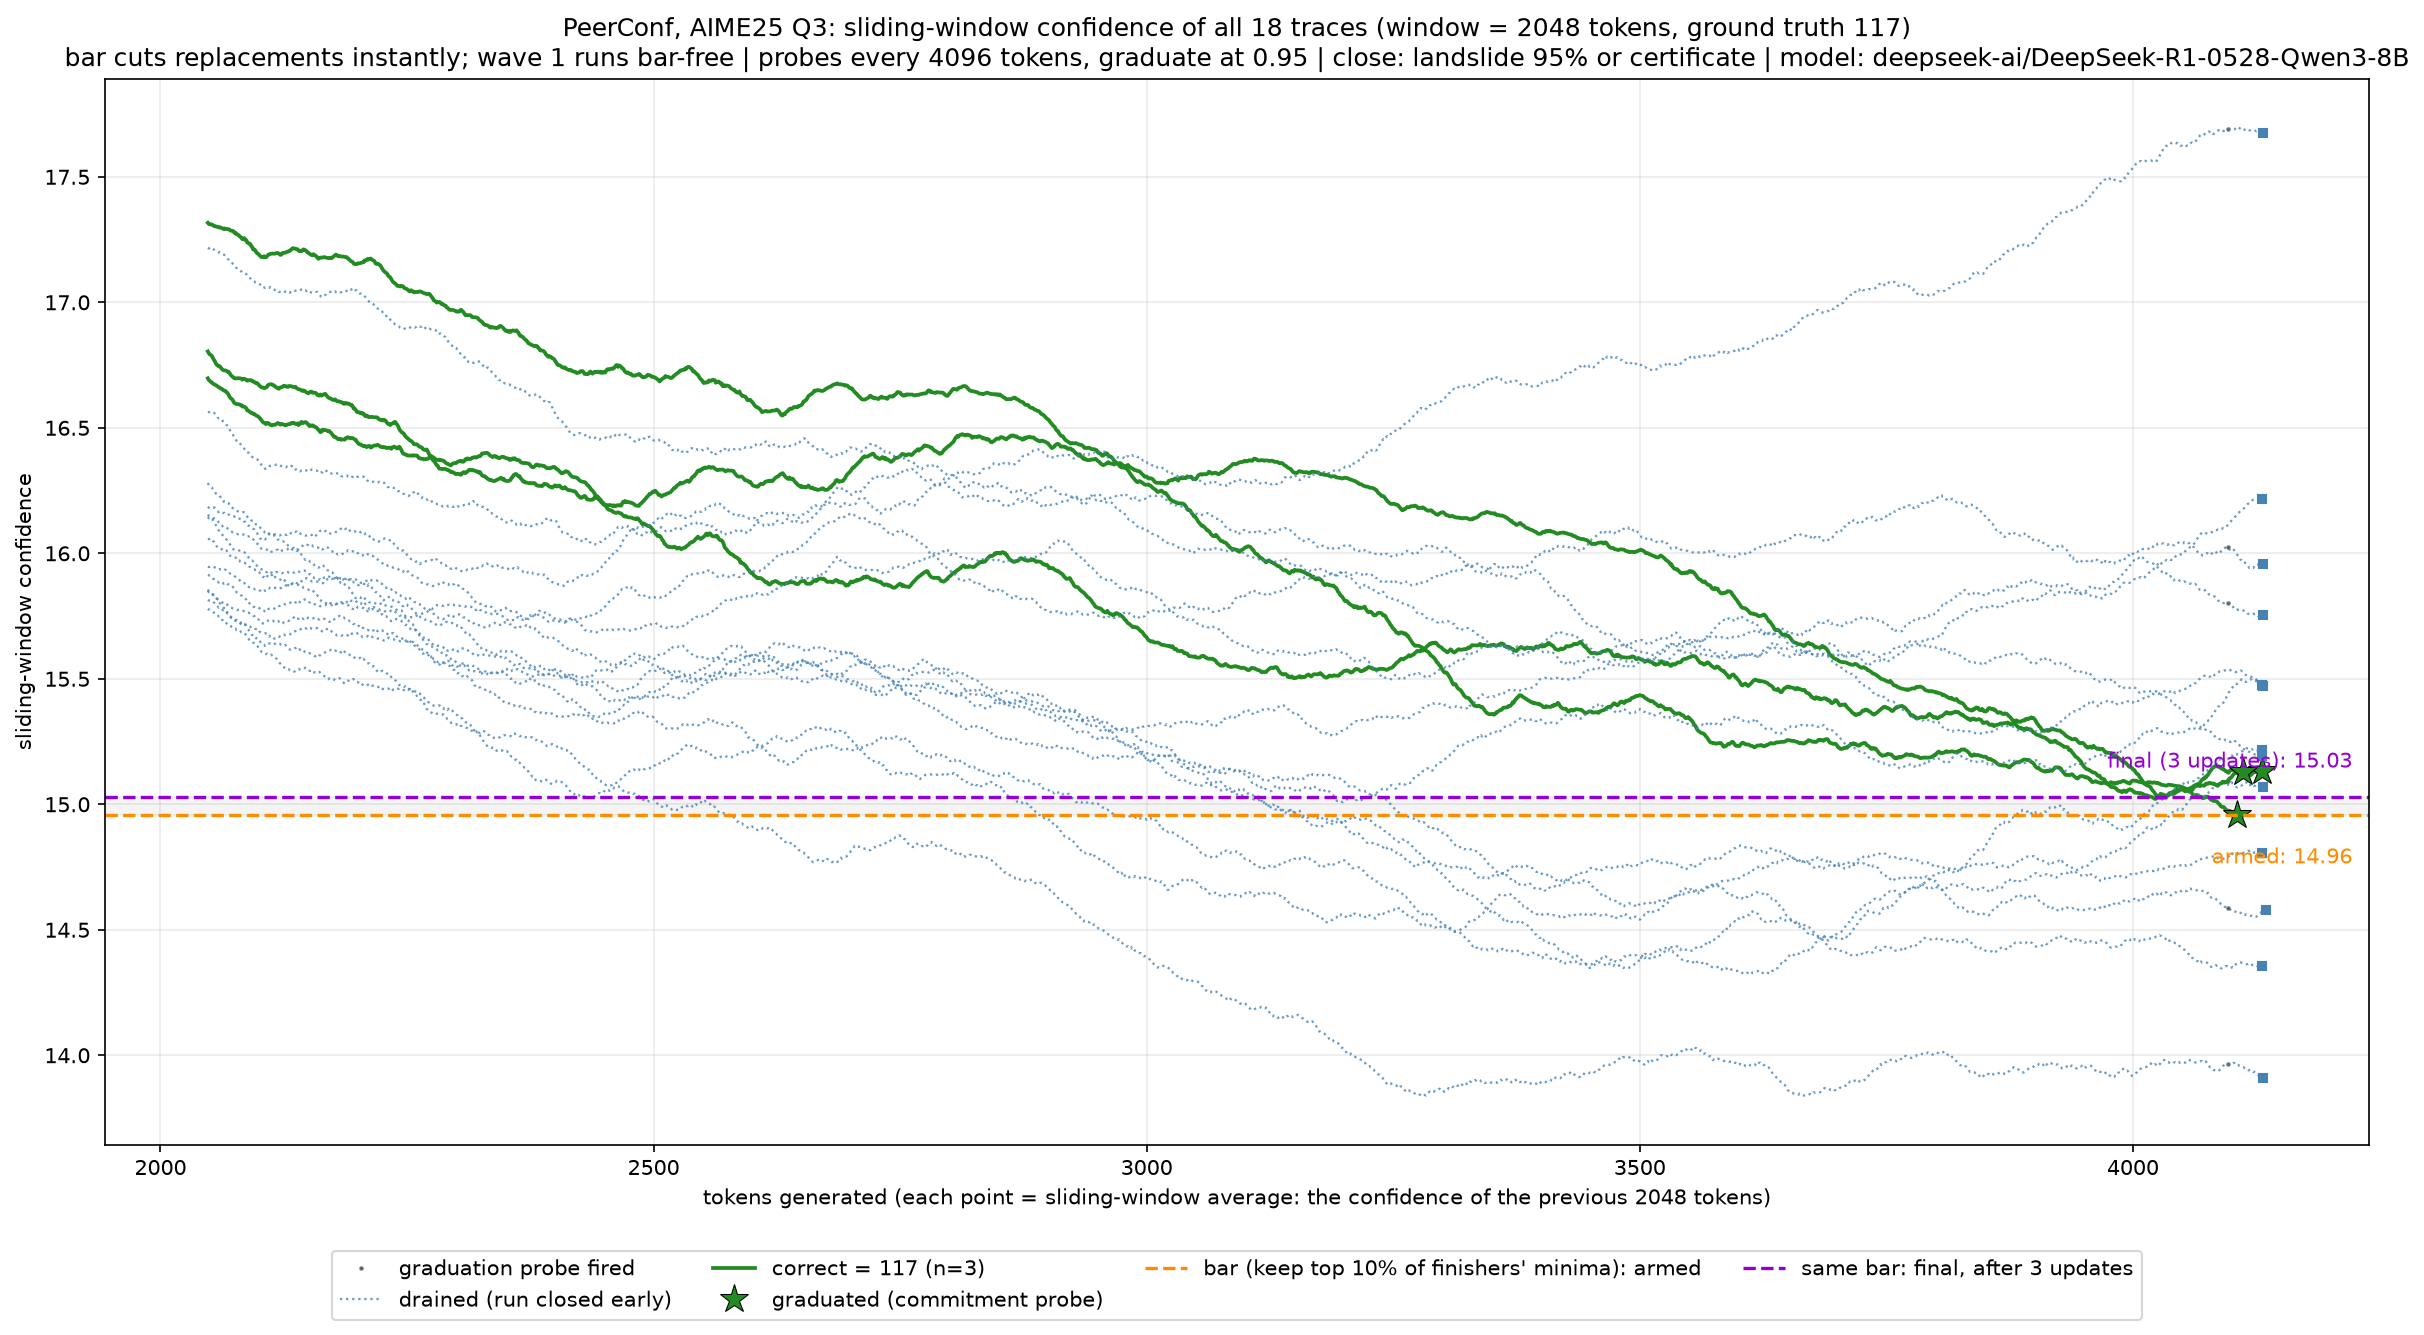
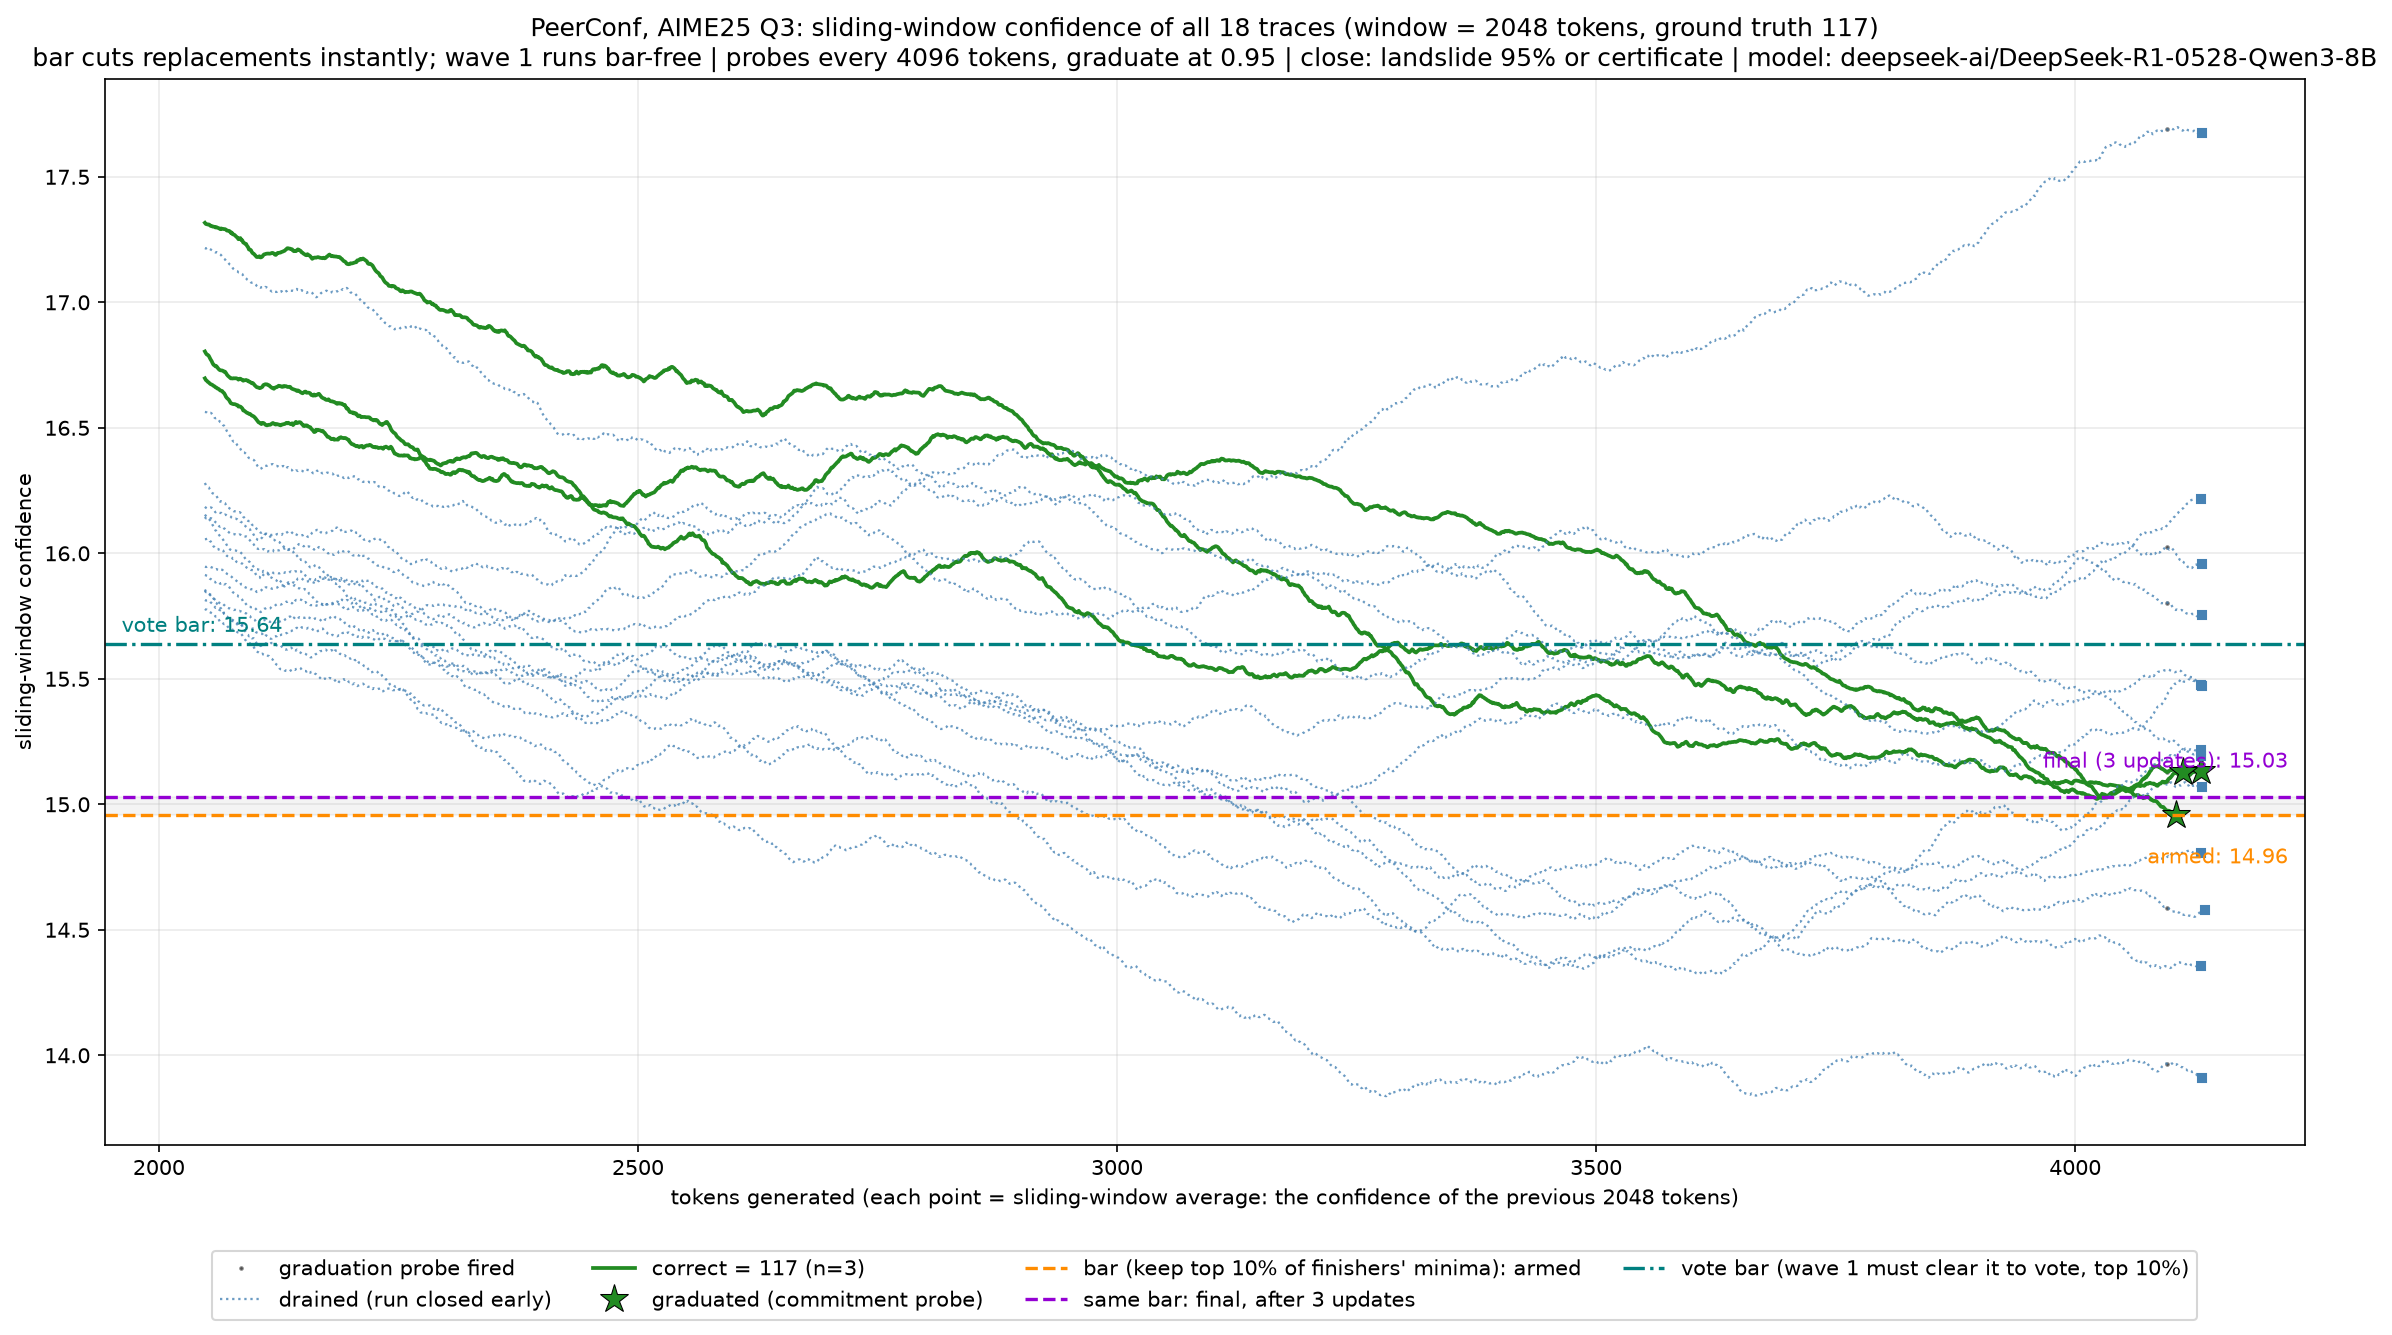
draw the vote bar and add its numbers

diff --git a/peerconf/cell3_confidence_timeline.py b/peerconf/cell3_confidence_timeline.py
@@ -144,6 +144,22 @@ def draw_timeline(fname):
                     xycoords=("axes fraction", "data"), xytext=(-8, dy_last),
                     textcoords="offset points", ha="right", color=FINAL)
 
+    # the vote bar: DeepConf's top-eta% filter. Once wave 1 has departed, only a
+    # wave-1 path whose lifetime low clears this line may vote. Replacements vote
+    # regardless. Older pkls predate the field, so derive it from wave 1's minima.
+    seats = cfg.get("SEATS")
+    vbar = cfg.get("vote_bar")
+    if vbar is None and seats and keep:
+        w1 = [min(t["confs"]) for t in r["traces"] if t["id"] < seats and t["confs"]]
+        if w1:
+            vbar = float(np.percentile(w1, 100 - keep))
+    if vbar is not None:
+        ax.axhline(vbar, color="teal", ls="-.", lw=1.6,
+                   label=f"vote bar (wave 1 must clear it to vote, top {keep}%)")
+        ax.annotate(f"vote bar: {vbar:.2f}", xy=(0.0, vbar),
+                    xycoords=("axes fraction", "data"), xytext=(8, 6),
+                    textcoords="offset points", ha="left", color="teal")
+
     # the generation cap, when the pkl recorded it: a khaki trace that ends here
     # was truncated by the budget, not by anything the run decided
     cap = cfg.get("MAX_TOK_TRACE")

diff --git a/deepconf/cell3_deepconf_timeline.py b/deepconf/cell3_deepconf_timeline.py
@@ -97,11 +97,14 @@ def draw_timeline(fname):
 
     if bar is not None:
         keep = cfg.get("CONFIDENCE_PERCENTILE", "?")
-        ax.axhline(bar, color="tab:blue", ls="--", lw=1.3,
-                   label=f"frozen bar (keep top {keep}% of warmup minima)")
-        ax.annotate(f"bar: {bar:.2f}", xy=(1.0, bar),
-                    xycoords=("axes fraction", "data"), xytext=(-8, 6),
-                    textcoords="offset points", ha="right", color="tab:blue")
+        # one line doing two jobs: it cuts the online wave, and a warmup trace
+        # below it does not get to vote
+        ax.axhline(bar, color="teal", ls="-.", lw=1.6,
+                   label=f"frozen bar: cuts the online wave, and warmup must "
+                         f"clear it to vote (top {keep}%)")
+        ax.annotate(f"bar: {bar:.2f}", xy=(0.0, bar),
+                    xycoords=("axes fraction", "data"), xytext=(8, 6),
+                    textcoords="offset points", ha="left", color="teal")
 
     ax.set_xlabel(f"tokens generated (each point = sliding-window average: "
                   f"the confidence of the previous {WINDOW} tokens)")

diff --git a/results/aime25/README.md b/results/aime25/README.md
@@ -8,6 +8,7 @@ peerconf-low on all 30 questions. deepconf coming soon.
 |---|---|---|---|---|---|
 | DeepSeek-8B | AIME25 (Q0-29) | 11.66M | 145 min | 86.7% | 389K |
 | | correct subset (26 Q) | 6.85M | 72 min | 100% | 263K |
+| | with the voting filter | 10.39M | - | 86.7% | 346K |
 
 Budget 32 traces/question, 16 seats, 64k-token cap, one run per question.
 Time = generation wall-clock on 2x H200 SXM, excludes server startup.
@@ -15,41 +16,44 @@ Time = generation wall-clock on 2x H200 SXM, excludes server startup.
 The four wrong answers (Q13, Q14, Q27, Q29) cost 4.82M tokens, 41% of the run,
 so a correct answer averages 263K tokens and a wrong one averages 1.20M.
 
-## If a capped-out trace were not replaced
+## The voting filter
 
-When a trace hits the 64k cap its seat is refilled with a fresh one. But a trace
-that ran out of budget is saying this question needs more than the cap, so the
-replacement is being asked to do the thing that just failed.
+DeepConf does not vote with every finisher. Once its 16 warmup traces have
+departed it freezes a bar at the top 10% of their minima, and a warmup trace
+below that bar does not get to vote. Traces launched afterwards vote unfiltered.
+Our run applied the same top 10% only to cutting, never to voting, so every
+finisher had a ballot. This is not a new rule, it is the baseline's own voting
+scheme that we had left out.
 
-Not refilling in that case costs nothing:
+Adding it, computed from the saved traces:
 
-| | as run | with the rule |
+| | as run | with the filter |
 |---|---|---|
 | accuracy | 26/30 | 26/30 |
-| tokens | 11,661,831 | 11,033,776 |
+| tokens | 11,661,831 | 10,385,293 |
 
-5.4% fewer tokens for the same answers. Only three questions move at all:
+10.9% fewer tokens for the same answers. Three questions move:
 
-| Q | as run | with the rule | |
+| Q | as run | with the filter | |
 |---|---|---|---|
-| 13 | 1,791,527 | 1,322,859 | -26% |
-| 27 | 1,538,774 | 1,429,064 | -7% |
-| 12 | 920,401 | 870,724 | -5% |
+| 13 | 1,791,527 | 1,032,306 | -42% |
+| 27 | 1,538,774 | 1,031,124 | -33% |
+| 12 | 920,401 | 911,146 | -1% |
 
-On the other 27 nothing changes, because a trace that finishes, or is cut early,
-still gets replaced as normal. The traces this removes are ones that almost never
-voted: of the nine dropped on Q13, one finished, and it was not the winner.
+The other 27 never set a vote bar at all, because they close on three unanimous
+finishers before wave 1 has finished departing. Only Q27 changes its answer, from
+0 to 208, and both are wrong.
 
-The change is one condition at the seat-refill site in cell2_run.py:
+Spend at the close is computed rather than estimated. Traces decode at the same
+rate under continuous batching, so elapsed time can be measured in tokens: a
+wave-1 path departs at its own token count, and a replacement departs at the time
+its predecessor left plus its own. The departure order this produces matches
+run.log on 26 of 28 questions.
 
-```python
-if not run_over and launched < MAX_TRACES and t.status != "truncated":
-```
-
-Replayed from the saved traces, so this is a recount rather than a rerun. Not
-launching those traces would also change the bar's calibration and when consensus
-fires, so the exact figures would move. The direction would not: they are traces
-that overwhelmingly never cast a ballot.
+One property worth stating. At budget 32 the filter keeps one or two traces out
+of sixteen, so these three questions close on a single voter. DeepConf reports
+eta=10 at K=512, where the same rule retains about 51 traces. The mechanism is
+identical; the sample it acts on is not.
 
 ## Confidence timelines
 
